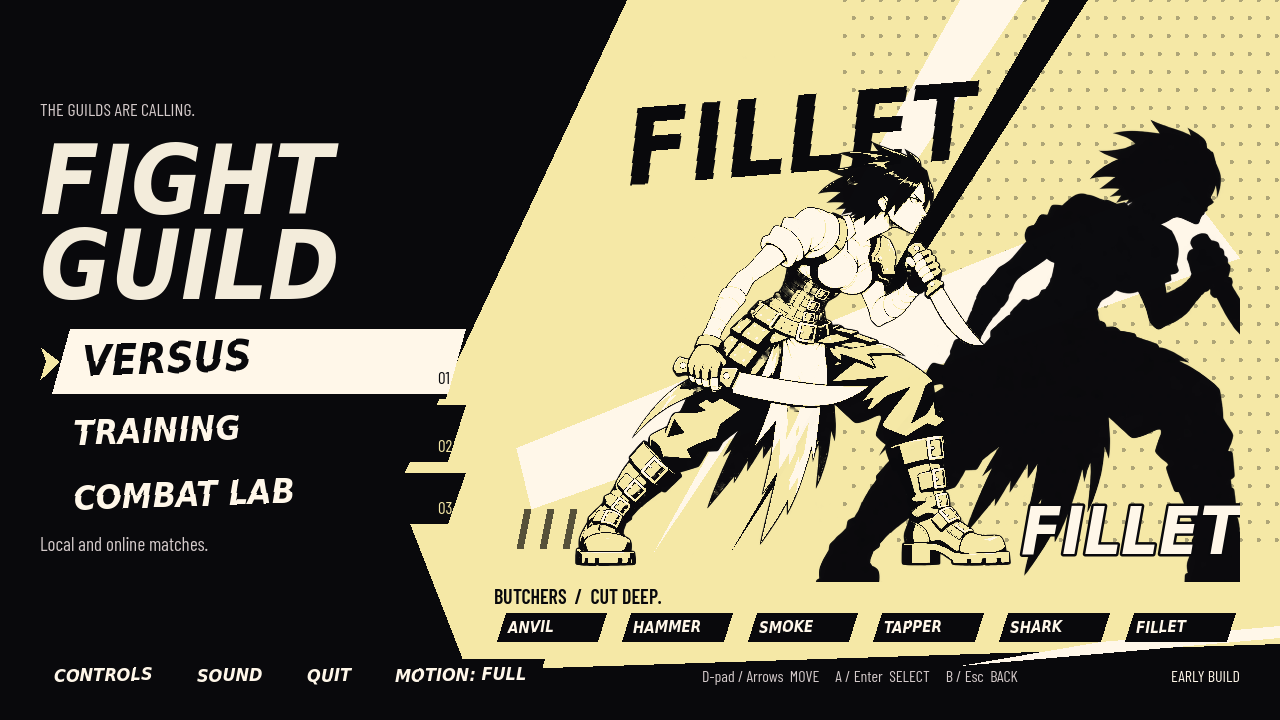
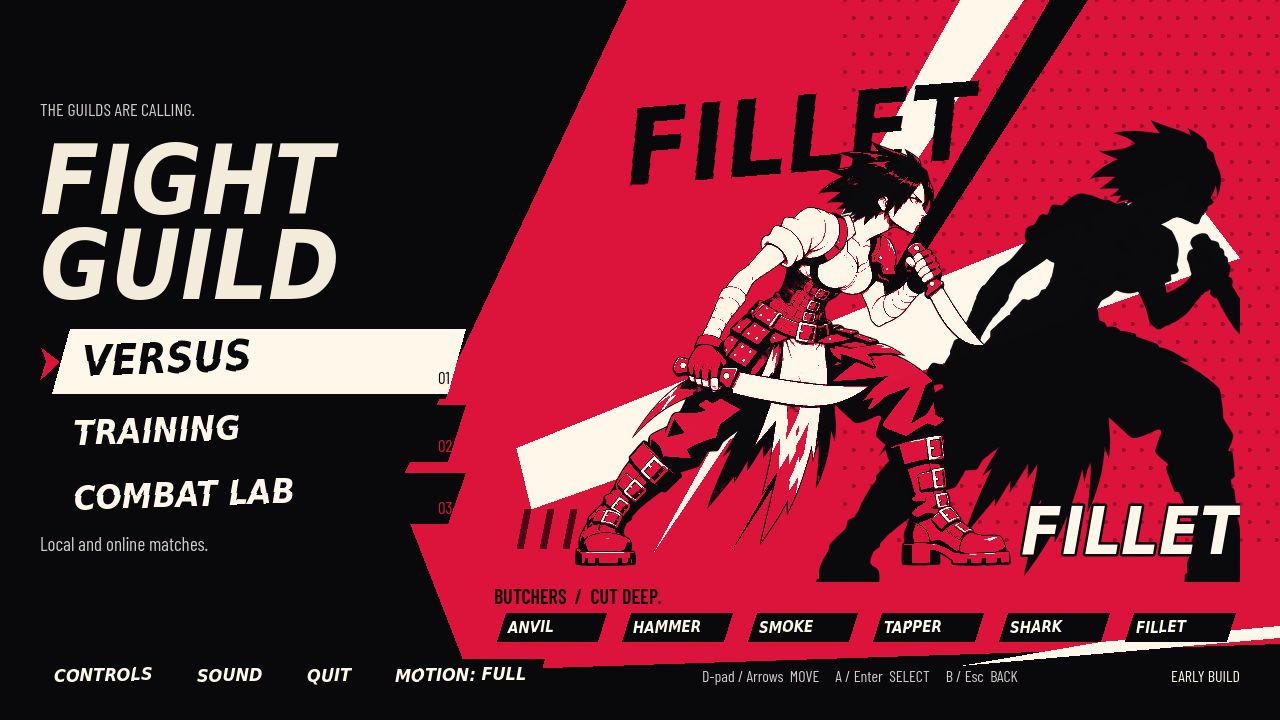
Set Fillet's native guild palette to crimson red

diff --git a/docs/native-ink-menus.md b/docs/native-ink-menus.md
@@ -7,7 +7,7 @@ Fight Guild's native front end uses the requested Persona 5-inspired print langu
 - Home features an approved combat stance as a three-tone cutout and an oversized silhouette. The six fighter buttons change the featured guild, illustration and dominant color. This is a menu preference for the current session; it does not change the match selection.
 - Versus, local sides, online connection, pause, results, Controls and Sound share the ink treatment. The native Combat Lab retains its functional editing layout.
 - Side-select colors follow the current matchup. Character select retains P1/P2 ownership, mirror picks and independent simplified-input toggles.
-- Character select has no portrait panels. Banana cream, teal and the other guild colors cross an irregular central tear. Switching the active player shifts the boundary toward the opponent; choosing a fighter sends a short color surge into the other field. The roster stays above the artwork and the controls stay still. A mirror match uses a darker shade of the same guild for P2.
+- Character select has no portrait panels. Crimson, teal and the other guild colors cross an irregular central tear. Switching the active player shifts the boundary toward the opponent; choosing a fighter sends a short color surge into the other field. The roster stays above the artwork and the controls stay still. A mirror match uses a darker shade of the same guild for P2.
 - Pause freezes the actual displayed fight: both fighters keep their attack/reaction/grab textures, camera positions, facing, scale and foreground order. Bodies fill with their own guild color, weapons turn white, and black outlines plus an offset ink shadow separate them from the dimmed arena. Angled command strips radiate around the combined visible bounds of both fighters, with guild-colored ink rays. The group focus ignores nearly transparent atlas padding. Results feature the winner and their guild. Canceling character selection restores the frozen matchup.
 - Front-end posters use the existing registered combat artwork. Fillet uses her ready stance; Shark, Smoke and Hammer use their idle loops; Tapper uses his ready pose; Anvil falls back to his available windup pose. No fighter textures, attack animations, hitboxes or simulation data are modified.
 
@@ -18,7 +18,7 @@ Fight Guild's native front end uses the requested Persona 5-inspired print langu
 | Alchemists | `#a8ba76` sage |
 | Brewers | `#d99a59` amber |
 | Fishermen | `#5ab5b5` teal |
-| Butchers | `#f5e8a6` banana cream |
+| Butchers / Fillet | `#dc143c` crimson red |
 
 Blacksmiths and Butchers use the user-corrected 2026-11-25 colors throughout native menus, pause silhouettes and health bars. The palette reads the same `FighterSelectPortrait.COLORS` values already used by the game. The shaders add black and paper-white without rewriting the sprites.
 
@@ -62,7 +62,7 @@ Review artifacts:
 - [Blacksmiths pause treatment](../exports/FightGuild-Ink-Pause-Blacksmiths.png)
 - [Results](../exports/FightGuild-Ink-Results.png)
 
-The reel records actual native UI tweens at 60 fps, forward/back travel, idle pause and first-active attack pause/resume. It enters a fixture match directly to keep the reel focused on menus; the normal loading and character-intro sequence remains in the game.
+The reel records actual native UI tweens at 60 fps, forward/back travel, idle pause and first-active attack pause/resume. It predates Fillet's crimson correction; the stills show the current palette. It enters a fixture match directly to keep the reel focused on menus; the normal loading and character-intro sequence remains in the game.
 
 ## Verification and reproduction
 
